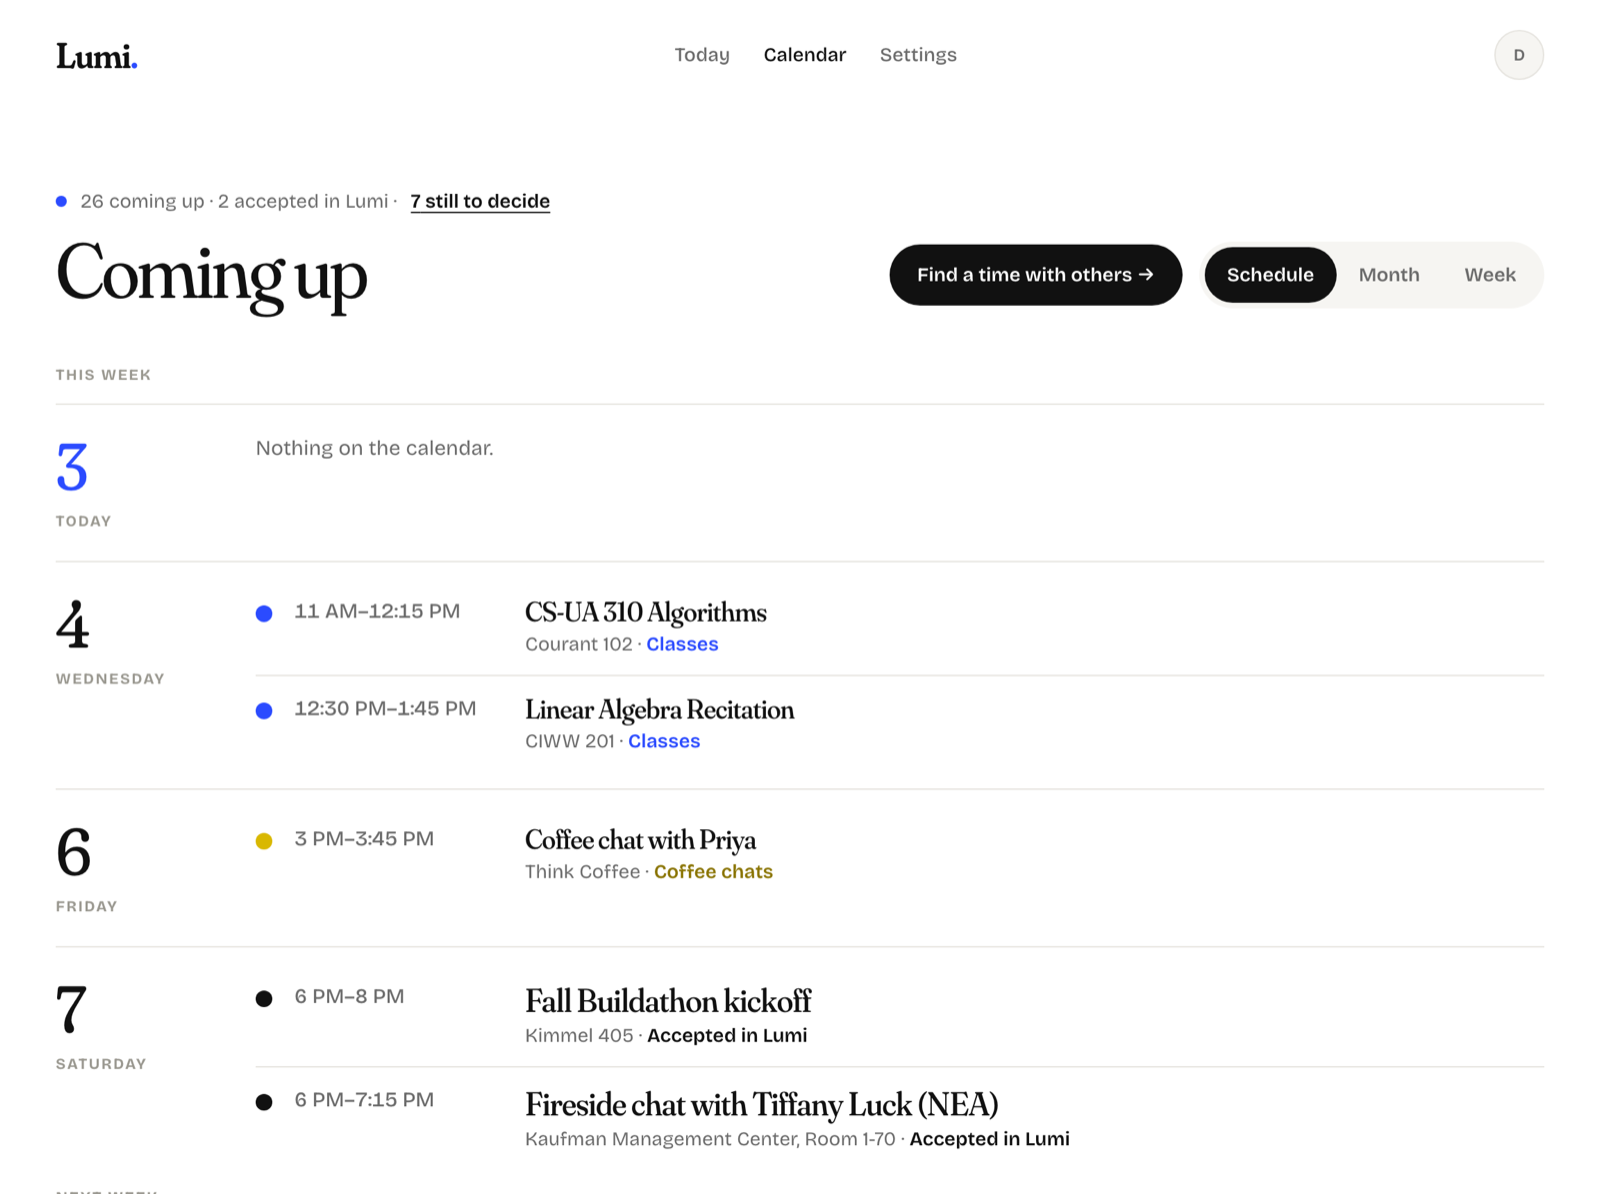
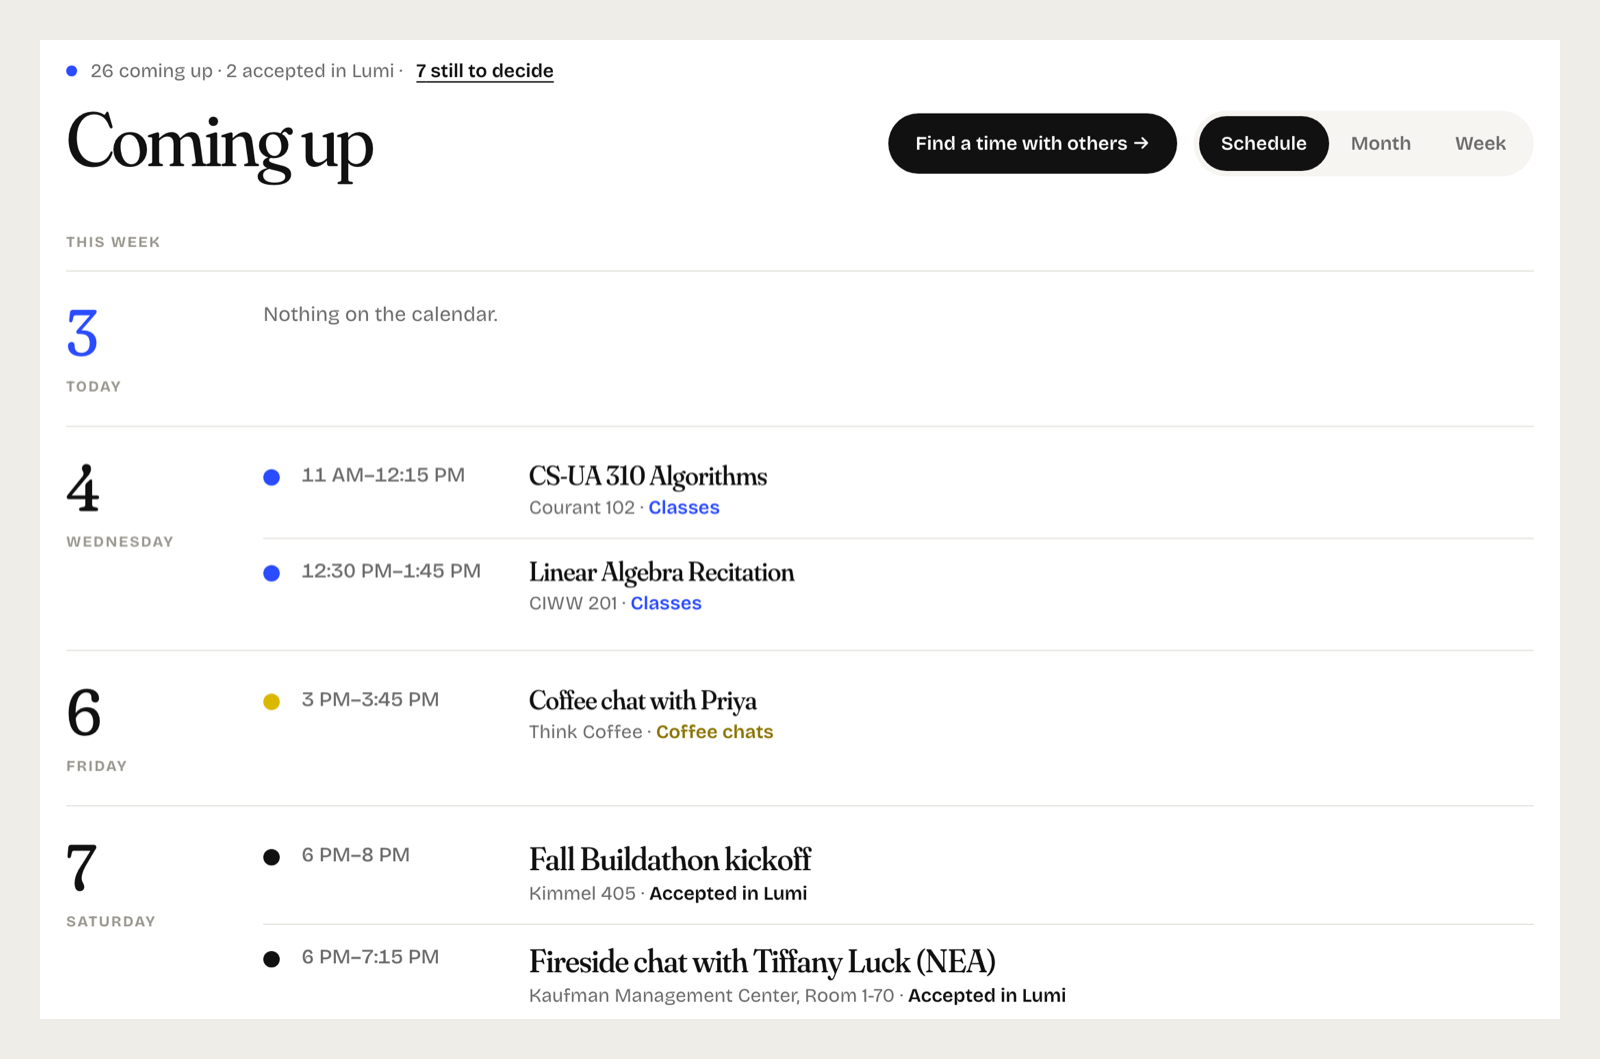
README: framed screenshots at full width, privacy as a list

diff --git a/README.md b/README.md
@@ -87,30 +87,23 @@ it wrong, then **Attend & add to calendar**.
 
 <br>
 
-<table>
-<tr>
-<td width="50%" valign="top">
-
 ### Your week at a glance
 
-<img src="docs/screenshots/calendar.png" alt="The Calendar page: the coming days with classes, a coffee chat and two events accepted in Lumi">
+<img src="docs/screenshots/calendar.png" alt="The Calendar page: the coming days with classes, a coffee chat and two events accepted in Lumi" width="880">
 
 Your own Google Calendar and the events you accepted in Lumi, in one list.
 Undecided events stay on Today until you choose.
 
-</td>
-<td width="50%" valign="top">
+<br>
 
 ### Find a time together
 
-<img src="docs/screenshots/find-a-time.png" alt="A group poll: your free time on the left, everyone's overlapping availability on the right">
+<img src="docs/screenshots/find-a-time.png" alt="A group poll: your free time on the left, everyone's overlapping availability on the right" width="880">
 
 Share a poll link. Friends mark when they are free without making an
 account, and Lumi ranks the times that work for everyone.
 
-</td>
-</tr>
-</table>
+<br>
 
 ### Three ways to bring mail in
 
@@ -153,12 +146,13 @@ More in [docs/ARCHITECTURE.md](docs/ARCHITECTURE.md) and
 
 ## Privacy
 
-| | |
-|---|---|
-| ✋ **You decide every time** | Lumi never adds, accepts or declines anything on its own. |
-| 🔑 **Minimal access** | Sign-in asks for your name and email only. Inbox and calendar access are optional, and forwarding works without either. |
-| 📥 **Limited reading** | Only your primary inbox, and only mail newer than the last check. |
-| 🗑 **Short retention** | Email content is deleted after 14 days. |
+- ✋ **You decide every time.** Lumi never adds, accepts or declines anything
+  on its own.
+- 🔑 **Minimal access.** Sign-in asks for your name and email only. Inbox and
+  calendar access are optional, and forwarding works without either.
+- 📥 **Limited reading.** Only your primary inbox, and only mail newer than
+  the last check.
+- 🗑 **Short retention.** Email content is deleted after 14 days.
 
 ## Built with
 
